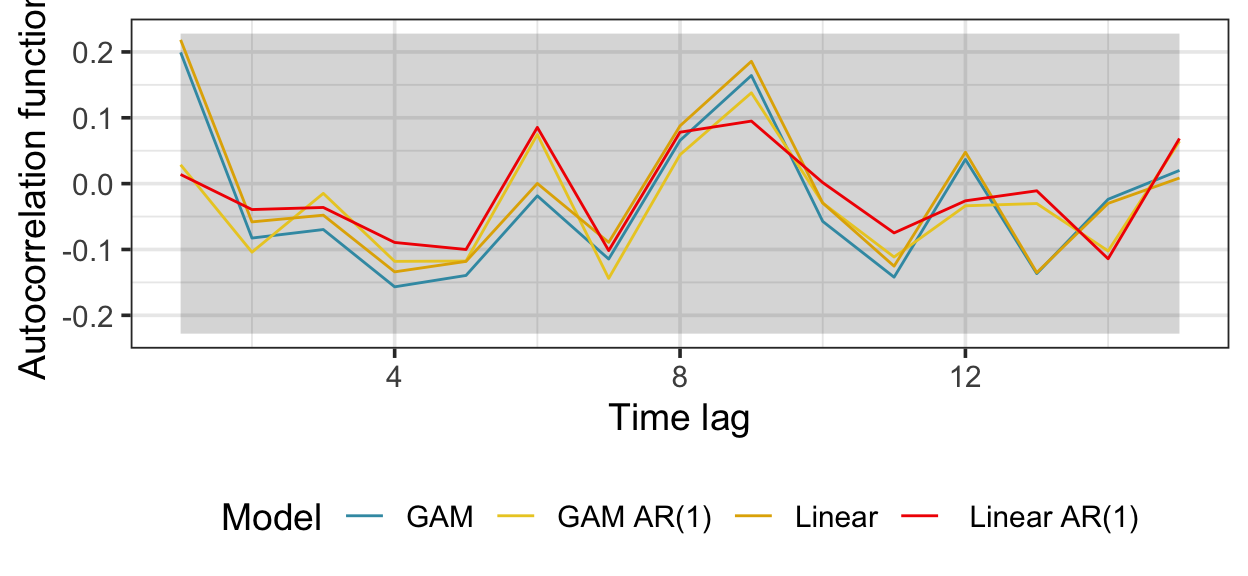
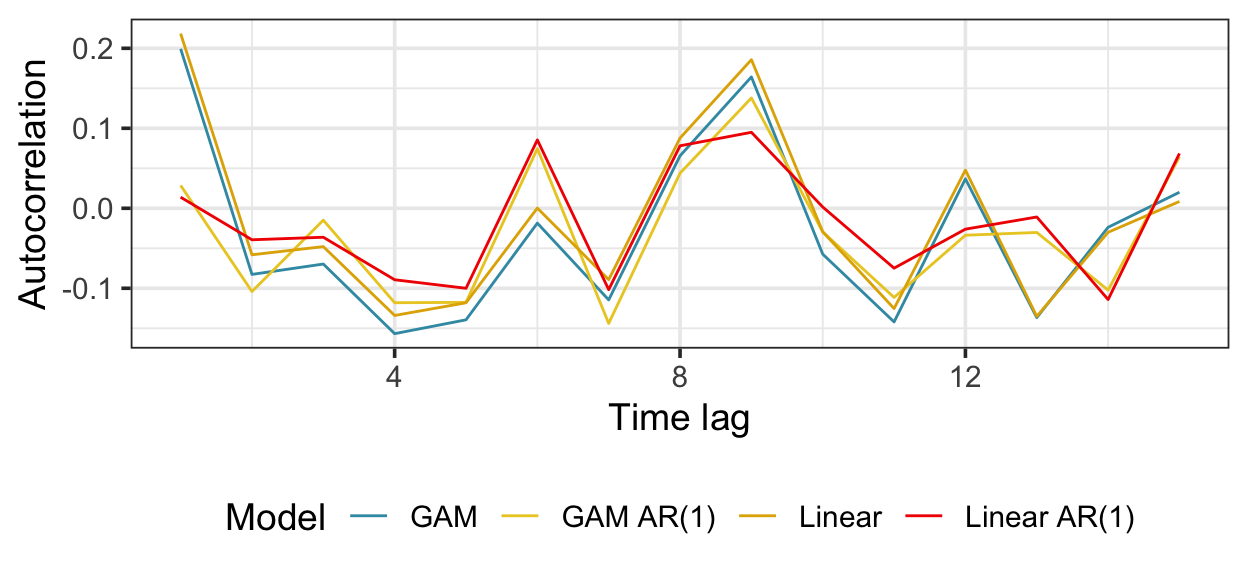
small edit

diff --git a/_posts/2021-09-08-a-brownification-pause/a-brownification-pause.html b/_posts/2021-09-08-a-brownification-pause/a-brownification-pause.html
@@ -1505,7 +1505,7 @@ code span.wa { color: #5e5e5e; font-style: italic; } /* Warning */
 <p><img src="a-brownification-pause_files/figure-html5/plot-carx-1.png" width="624" /></p>
 </div>
 <p>While the GAM does appear to track the series slightly better, the linear model yielded an AIC of -44, whereas the cubic regression spline model yielded a larger AIC of -39.</p>
-<p>Both models yielded residuals with no obvious deviations from whiteness; the grey band denotes <span class="math inline">\(\pm1.96/\sqrt{n}\)</span>, the approximate 95% confidence bands on the autocorrelation function of white noise. For comparison, equivalent models fit using the function <code>lm()</code> (no autoregression) are shown as well. Autocorrelation at lag 1 is notably lower in the residuals from the censored AR(1) models.</p>
+<p>Both models yielded residuals with no obvious deviations from whiteness. For comparison, equivalent models fit using the function <code>lm()</code> (no autoregression) are shown as well. Autocorrelation at lag 1 is notably lower in the residuals from the censored AR(1) models.</p>
 <div class="layout-chunk" data-layout="l-body">
 <p><img src="a-brownification-pause_files/figure-html5/diagnostics-1.png" width="624" /></p>
 </div>
@@ -1539,9 +1539,6 @@ code span.wa { color: #5e5e5e; font-style: italic; } /* Warning */
 </div>
 </div>
 <div class="layout-chunk" data-layout="l-body">
-
-</div>
-<div class="layout-chunk" data-layout="l-body">
 <p><img src="a-brownification-pause_files/figure-html5/model-preds-1.png" width="624" data-distill-preview=1 /></p>
 </div>
 <p>The <code>brms</code> and <code>carx</code> models also yielded similar estimates of the AR(1) parameter: 0.21 for the censored autoregression (linear time covariate) and 0.28 for the Bayesian regression model. In percentage terms, the two approaches differ mainly in the predictions over the first part of the series, where most of the censored observations were recorded.</p>
@@ -1564,15 +1561,6 @@ Wang, Chao, and Kung-Sik Chan. 2017. <span>“Carx: An <span>R</span> <span>Pack
 <div class="d-appendix">
 </div>
 
-<!-- dynamically load mathjax for compatibility with self-contained -->
-<script>
-  (function () {
-    var script = document.createElement("script");
-    script.type = "text/javascript";
-    script.src  = "https://mathjax.rstudio.com/latest/MathJax.js?config=TeX-AMS-MML_HTMLorMML";
-    document.getElementsByTagName("head")[0].appendChild(script);
-  })();
-</script>
 
 <!--radix_placeholder_site_after_body-->
 <!--/radix_placeholder_site_after_body-->

diff --git a/docs/posts/2021-09-08-a-brownification-pause/index.html b/docs/posts/2021-09-08-a-brownification-pause/index.html
@@ -2144,7 +2144,7 @@ document.addEventListener('DOMContentLoaded', function() {
 <p><img src="a-brownification-pause_files/figure-html5/plot-carx-1.png" width="624" /></p>
 </div>
 <p>While the GAM does appear to track the series slightly better, the linear model yielded an AIC of -44, whereas the cubic regression spline model yielded a larger AIC of -39.</p>
-<p>Both models yielded residuals with no obvious deviations from whiteness; the grey band denotes <span class="math inline">\(\pm1.96/\sqrt{n}\)</span>, the approximate 95% confidence bands on the autocorrelation function of white noise. For comparison, equivalent models fit using the function <code>lm()</code> (no autoregression) are shown as well. Autocorrelation at lag 1 is notably lower in the residuals from the censored AR(1) models.</p>
+<p>Both models yielded residuals with no obvious deviations from whiteness. For comparison, equivalent models fit using the function <code>lm()</code> (no autoregression) are shown as well. Autocorrelation at lag 1 is notably lower in the residuals from the censored AR(1) models.</p>
 <div class="layout-chunk" data-layout="l-body">
 <p><img src="a-brownification-pause_files/figure-html5/diagnostics-1.png" width="624" /></p>
 </div>
@@ -2178,9 +2178,6 @@ document.addEventListener('DOMContentLoaded', function() {
 </div>
 </div>
 <div class="layout-chunk" data-layout="l-body">
-
-</div>
-<div class="layout-chunk" data-layout="l-body">
 <p><img src="a-brownification-pause_files/figure-html5/model-preds-1.png" width="624" data-distill-preview=1 /></p>
 </div>
 <p>The <code>brms</code> and <code>carx</code> models also yielded similar estimates of the AR(1) parameter: 0.21 for the censored autoregression (linear time covariate) and 0.28 for the Bayesian regression model. In percentage terms, the two approaches differ mainly in the predictions over the first part of the series, where most of the censored observations were recorded.</p>
@@ -2203,15 +2200,6 @@ Wang, Chao, and Kung-Sik Chan. 2017. <span>“Carx: An <span>R</span> <span>Pack
 <div class="d-appendix">
 </div>
 
-<!-- dynamically load mathjax for compatibility with self-contained -->
-<script>
-  (function () {
-    var script = document.createElement("script");
-    script.type = "text/javascript";
-    script.src  = "https://mathjax.rstudio.com/latest/MathJax.js?config=TeX-AMS-MML_HTMLorMML";
-    document.getElementsByTagName("head")[0].appendChild(script);
-  })();
-</script>
 
 <!--radix_placeholder_site_after_body-->
 <!--/radix_placeholder_site_after_body-->
